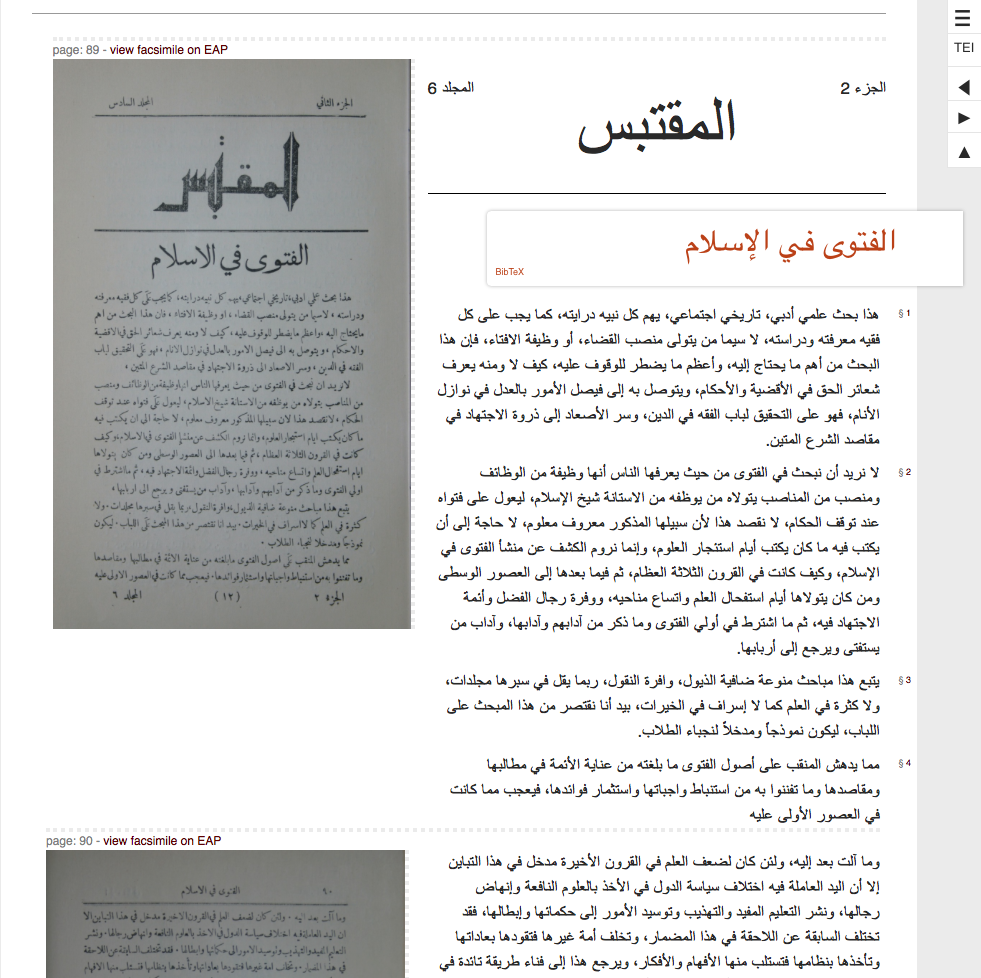
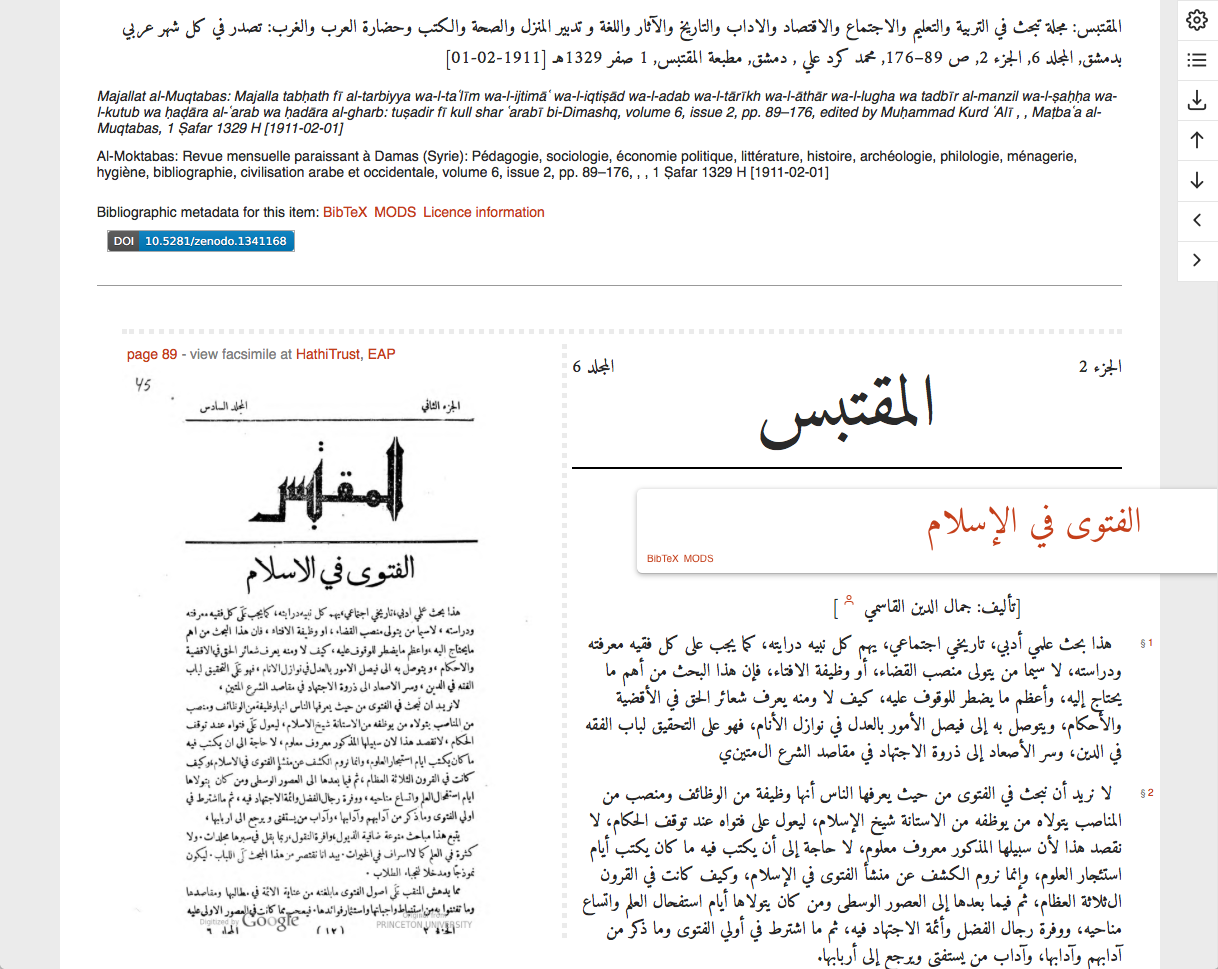
added screenshot of the webview

diff --git a/dh/2021-mind-the-gap/index.html b/dh/2021-mind-the-gap/index.html
@@ -182,11 +182,6 @@ Till Grallert
   </p>
   <p class="date">2021-03-04</p>
 </div>
-<div class="slide section level2">
-
-<!-- To do -->
-<!-- - comments on collaborations -->
-</div>
 <div id="title-slide" class="slide section level2">
 <h1>Title slide</h1>
 <p>Till Grallert, Orient-Institut Beirut (OIB), @<a href="https://twitter.com/tillgrallert">tillgrallert</a></p>
@@ -302,14 +297,22 @@ Till Grallert
 </div>
 <div id="corpus-building-open-arabic-periodical-editions-1" class="slide section level2">
 <h1>corpus building: <a href="https://openarabicpe.github.io">Open Arabic Periodical Editions</a></h1>
+<div class="c_width-60 c_left">
 <ol style="list-style-type: decimal">
 <li>Digitale Editionen: TEI XML.</li>
 <li>Offene Lizenzen: <a href="http://creativecommons.org/licenses/by-sa/4.0/">CC BY-SA 4.0</a> (TEI, MODS, BibTeX), MIT license (XSLT, XQuery)</li>
 <li>Soziale digitale Editionen, die auf <a href="https://github.com/openarabicpe">GitHub</a> gehostet sind: <!-- gradually improve transcription and mark-up --></li>
 <li>Veröffentlichungen werde auf <a href="https://zenodo.org">Zenodo</a> archiviert: DOI für dauerhafte Referenzierbarkeit</li>
-<li><a href="https://github.com/tillgrallert/tei-boilerplate-arabic-editions">Statische Webansichten</a><!--  (doesn't require a permanent internet connection) -->: Parallele Darstellung von Text und Faksimile.</li>
+<li><a href="https://github.com/openarabicpe/tei-boilerplate-arabic-editions">Statische Webansichten</a><!--  (doesn't require a permanent internet connection) -->: Parallele Darstellung von Text und Faksimile.</li>
 <li>Bibliographische Metadaten sind als öffentliche <a href="https://www.zotero.org/groups/openarabicpe">Zotero-Gruppe</a> gehostet</li>
 </ol>
+</div>
+<div class="c_width-30 c_right">
+<div class="figure">
+<img src="../../assets/OpenArabicPE/boilerplate_muqtabas.png" alt="" />
+<p class="caption"><a href="https://openarabicpe.github.io/journal_al-muqtabas/tei/oclc_4770057679-i_61.TEIP5.xml">Webansicht von <em>al-Muqtabas</em> 6(2)</a></p>
+</div>
+</div>
 </div>
 <div id="openarabicpes-corpus" class="slide section level2">
 <h1>OpenArabicPE’s corpus</h1>
@@ -329,7 +332,7 @@ Till Grallert
 </thead>
 <tbody>
 <tr class="odd">
-<td align="left"><a href="https://www.github.com/openarabicpe/digital-haqaiq"><strong>al-Ḥaqāʾiq</strong></a></td>
+<td align="left"><a href="https://www.github.com/openarabicpe/digital-haqaiq">al-Ḥaqāʾiq</a></td>
 <td align="left"><a href="https://doi.org/10.5281/zenodo.1232016">10.5281/zenodo.1232016</a></td>
 <td align="right">3</td>
 <td align="right">35</td>
@@ -338,7 +341,7 @@ Till Grallert
 <td align="right">832.66</td>
 </tr>
 <tr class="even">
-<td align="left"><a href="https://www.github.com/openarabicpe/journal_al-hasna"><strong>al-Ḥasnāʾ</strong></a></td>
+<td align="left"><a href="https://www.github.com/openarabicpe/journal_al-hasna">al-Ḥasnāʾ</a></td>
 <td align="left"><a href="https://doi.org/10.5281/zenodo.3556246">10.5281/zenodo.3556246</a></td>
 <td align="right">1</td>
 <td align="right">12</td>
@@ -356,7 +359,7 @@ Till Grallert
 <td align="right">1437.73</td>
 </tr>
 <tr class="even">
-<td align="left"><a href="https://www.github.com/tillgrallert/digital-muqtabas"><strong>al-Muqtabas</strong></a></td>
+<td align="left"><a href="https://www.github.com/tillgrallert/digital-muqtabas">al-Muqtabas</a></td>
 <td align="left"><a href="https://doi.org/10.5281/zenodo.597319">10.5281/zenodo.597319</a></td>
 <td align="right">9</td>
 <td align="right">96</td>
@@ -383,7 +386,7 @@ Till Grallert
 <td align="right">695.09</td>
 </tr>
 <tr class="odd">
-<td align="left"><a href="https://www.github.com/openarabicpe/journal_lughat-al-arab"><strong>Lughat al-ʿArab</strong></a></td>
+<td align="left"><a href="https://www.github.com/openarabicpe/journal_lughat-al-arab">Lughat al-ʿArab</a></td>
 <td align="left"><a href="https://doi.org/10.5281/zenodo.3514384">10.5281/zenodo.3514384</a></td>
 <td align="right">3</td>
 <td align="right">34</td>
@@ -437,12 +440,15 @@ Till Grallert
 </ul></li>
 <li>Normdatensätze für die Disambiguierung und Anreicherung von Daten
 <ul>
-<li>zumeist automisch erstellt und verknüpft</li>
+<li>zumeist automatisch erstellt und verknüpft</li>
 </ul></li>
 </ul>
 </div>
 <div class="c_width-50 c_right">
+<!-- Zwei Ausschnitte, die verschiedene Periodika mit dem gleichen Titel (*al-Zuhūr*) erwähnen. -->
+<!-- ägyptische Zeitschrift -->
 <div class="sourceCode" id="cb1"><pre class="sourceCode xml"><code class="sourceCode xml"><span id="cb1-1"><a href="#cb1-1" aria-hidden="true"></a>والأصح الدرعية بلام التعريف (راجع <span class="kw">&lt;bibl</span><span class="ot"> subtype=</span><span class="st">&quot;journal&quot;</span><span class="ot"> type=</span><span class="st">&quot;periodical&quot;</span><span class="kw">&gt;</span>مجلة <span class="kw">&lt;title</span><span class="ot"> level=</span><span class="st">&quot;j&quot;</span><span class="ot"> ref=</span><span class="st">&quot;oape:bibl:3 oclc:1034545644&quot;</span><span class="ot"> xml:id=</span><span class="st">&quot;title_16.d2e2291&quot;</span><span class="kw">&gt;</span>الزهور<span class="kw">&lt;/title&gt;</span> المصرية  <span class="kw">&lt;biblScope</span><span class="ot"> unit=</span><span class="st">&quot;volume&quot;</span><span class="ot"> from=</span><span class="st">&quot;2&quot;</span><span class="ot"> to=</span><span class="st">&quot;2&quot;</span><span class="kw">&gt;</span>٢<span class="kw">&lt;/biblScope&gt;</span> :  <span class="kw">&lt;biblScope</span><span class="ot"> unit=</span><span class="st">&quot;page&quot;</span><span class="ot"> from=</span><span class="st">&quot;292&quot;</span><span class="kw">&gt;</span>٢٩٢<span class="kw">&lt;/biblScope&gt;&lt;/bibl&gt;</span>)</span></code></pre></div>
+<!-- irakische Zeitung -->
 <div class="sourceCode" id="cb2"><pre class="sourceCode xml"><code class="sourceCode xml"><span id="cb2-1"><a href="#cb2-1" aria-hidden="true"></a>وانتخب <span class="kw">&lt;persName&gt;</span>فؤاد أفندي الدفتري البغدادي<span class="kw">&lt;/persName&gt;</span> و<span class="kw">&lt;bibl&gt;&lt;editor&gt;&lt;persName&gt;</span>نوري أفندي<span class="kw">&lt;/persName&gt;&lt;/editor&gt;</span> راس كتاب <span class="kw">&lt;textLang</span><span class="ot"> otherLangs=</span><span class="st">&quot;ota&quot;</span><span class="kw">&gt;</span>القسم التركي<span class="kw">&lt;/textLang&gt;</span> في <span class="kw">&lt;bibl</span><span class="ot"> type=</span><span class="st">&quot;periodical&quot;</span><span class="ot"> subtype=</span><span class="st">&quot;newspaper&quot;</span><span class="kw">&gt;</span>جريدة <span class="kw">&lt;title</span><span class="ot"> ref=</span><span class="st">&quot;oape:bibl:532&quot;</span><span class="kw">&gt;</span>الزهور<span class="kw">&lt;/title&gt;&lt;/bibl&gt;</span> البغدادية<span class="kw">&lt;/bibl&gt;</span> نائبين عن <span class="kw">&lt;placeName</span><span class="ot"> ref=</span><span class="st">&quot;oape:place:372 geon:94824&quot;</span><span class="kw">&gt;</span>كربلاء<span class="kw">&lt;/placeName&gt;</span>.</span></code></pre></div>
 </div>
 </div>
@@ -513,12 +519,11 @@ Till Grallert
 </div>
 <div class="c_width-30 c_right">
 <ol style="list-style-type: decimal">
-<li>Nur wenige Knoten sind von relativer Bedeutung</li>
+<li>Nur wenige Knoten sind von relativer Bedeutung (14 von 319)</li>
 <li>Sehr begrenzte Überschneidung zwischen Periodika aus der gleichen Stadt</li>
-<li>Kernnetzwerk: Viele Iraker</li>
-<li>Kernnetzwerk: Wenige Syrer</li>
-<li>Kernnetzwerk: Wenige Christen</li>
-<li>Kernnetzwerk: Viele Dichter</li>
+<li>Kernnetzwerk: Viele Iraker (6), wenige Syrer (2)</li>
+<li>Kernnetzwerk: Wenige Christen (2)</li>
+<li>Kernnetzwerk: Viele Dichter (7) und Journalisten (7)</li>
 <li>Kernnetzwerk: praktisch nicht in der Literatur abgebildet</li>
 </ol>
 </div>

diff --git a/dh/2021-mind-the-gap/mind-the-gap.md b/dh/2021-mind-the-gap/mind-the-gap.md
@@ -8,9 +8,6 @@ date: 2021-03-04
 duration: 25
 ---
 
-<!-- To do -->
-<!-- - comments on collaborations -->
-
 
 ## Title slide
 
@@ -74,12 +71,21 @@ Table: In Project Jarāʾid erfasste Periodika {#tbl:jaraid-stats}
 
 ## corpus building: [Open Arabic Periodical Editions](https://openarabicpe.github.io)
 
+:::{.c_width-60 .c_left}
+
 1. Digitale Editionen: TEI XML.
 1. Offene Lizenzen: [CC BY-SA 4.0](http://creativecommons.org/licenses/by-sa/4.0/) (TEI, MODS, BibTeX), MIT license (XSLT, XQuery)
 2. Soziale digitale Editionen, die auf [GitHub](https://github.com/openarabicpe) gehostet sind: <!-- gradually improve transcription and mark-up -->
 2. Veröffentlichungen werde auf [Zenodo](https://zenodo.org) archiviert: DOI für dauerhafte Referenzierbarkeit
-3. [Statische Webansichten](https://github.com/tillgrallert/tei-boilerplate-arabic-editions)<!--  (doesn't require a permanent internet connection) -->: Parallele Darstellung von Text und Faksimile.
+3. [Statische Webansichten](https://github.com/openarabicpe/tei-boilerplate-arabic-editions)<!--  (doesn't require a permanent internet connection) -->: Parallele Darstellung von Text und Faksimile.
 4. Bibliographische Metadaten sind als öffentliche [Zotero-Gruppe](https://www.zotero.org/groups/openarabicpe) gehostet
+
+:::
+:::{.c_width-30 .c_right}
+
+![[Webansicht von *al-Muqtabas* 6(2)](https://openarabicpe.github.io/journal_al-muqtabas/tei/oclc_4770057679-i_61.TEIP5.xml)](../../assets/OpenArabicPE/boilerplate_muqtabas.png)
+
+:::
 
 ## OpenArabicPE's corpus
 
@@ -112,15 +118,18 @@ Table: Übersicht über das Periodikakorpus {#tbl:openarabicpe-corpus}
 - Auszeichnung aller Erwähnungen von Periodika im Text
     + semi-automatisch (regex): folgt dem Muster "Zeitung ABC", "Zeitschrift DEF"
 - Normdatensätze für die Disambiguierung und Anreicherung von Daten
-    + zumeist automisch erstellt und verknüpft
+    + zumeist automatisch erstellt und verknüpft
 
 :::
 :::{.c_width-50 .c_right}
+<!-- Zwei Ausschnitte, die verschiedene Periodika mit dem gleichen Titel (*al-Zuhūr*) erwähnen. -->
 
+<!-- ägyptische Zeitschrift -->
 ```xml
 والأصح الدرعية بلام التعريف (راجع <bibl subtype="journal" type="periodical">مجلة <title level="j" ref="oape:bibl:3 oclc:1034545644" xml:id="title_16.d2e2291">الزهور</title> المصرية  <biblScope unit="volume" from="2" to="2">٢</biblScope> :  <biblScope unit="page" from="292">٢٩٢</biblScope></bibl>)
 ```
 
+<!-- irakische Zeitung -->
 ```xml
 وانتخب <persName>فؤاد أفندي الدفتري البغدادي</persName> و<bibl><editor><persName>نوري أفندي</persName></editor> راس كتاب <textLang otherLangs="ota">القسم التركي</textLang> في <bibl type="periodical" subtype="newspaper">جريدة <title ref="oape:bibl:532">الزهور</title></bibl> البغدادية</bibl> نائبين عن <placeName ref="oape:place:372 geon:94824">كربلاء</placeName>.
 ```
@@ -188,12 +197,11 @@ Table: Übersicht über das Periodikakorpus {#tbl:openarabicpe-corpus}
 :::
 :::{.c_width-30 .c_right}
 
-1. Nur wenige Knoten sind von relativer Bedeutung
+1. Nur wenige Knoten sind von relativer Bedeutung (14 von 319)
 2. Sehr begrenzte Überschneidung zwischen Periodika aus der gleichen Stadt
-3. Kernnetzwerk: Viele Iraker
-4. Kernnetzwerk: Wenige Syrer
-5. Kernnetzwerk: Wenige Christen
-6. Kernnetzwerk: Viele Dichter
+3. Kernnetzwerk: Viele Iraker (6), wenige Syrer (2)
+5. Kernnetzwerk: Wenige Christen (2)
+6. Kernnetzwerk: Viele Dichter (7) und Journalisten (7)
 7. Kernnetzwerk: praktisch nicht in der Literatur abgebildet
 
 :::
